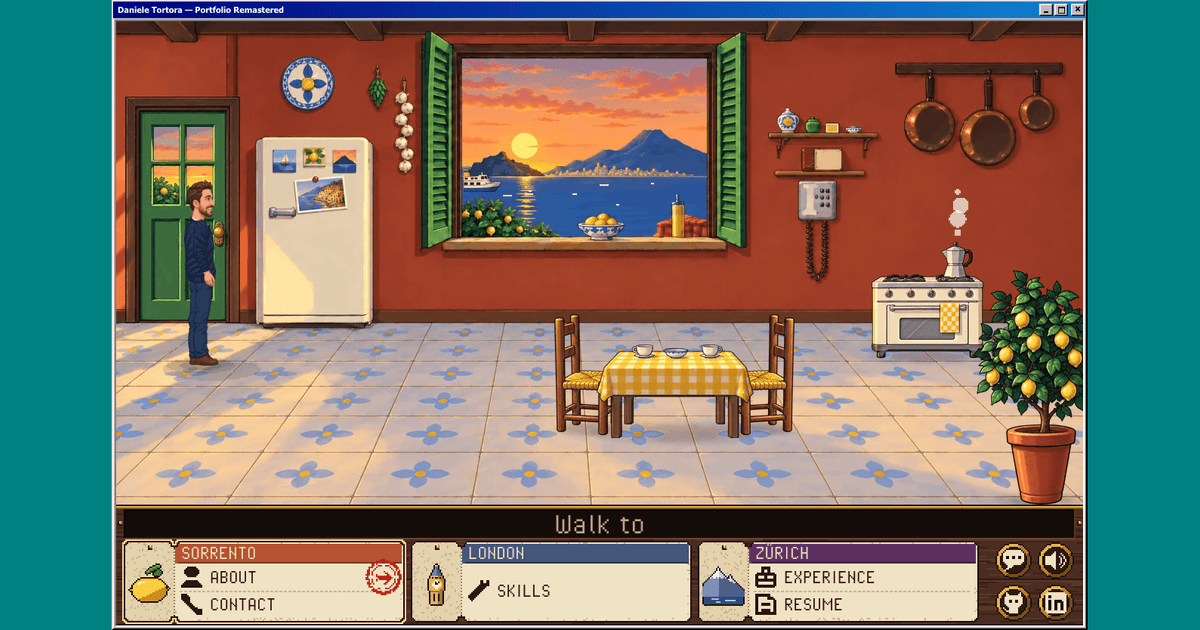
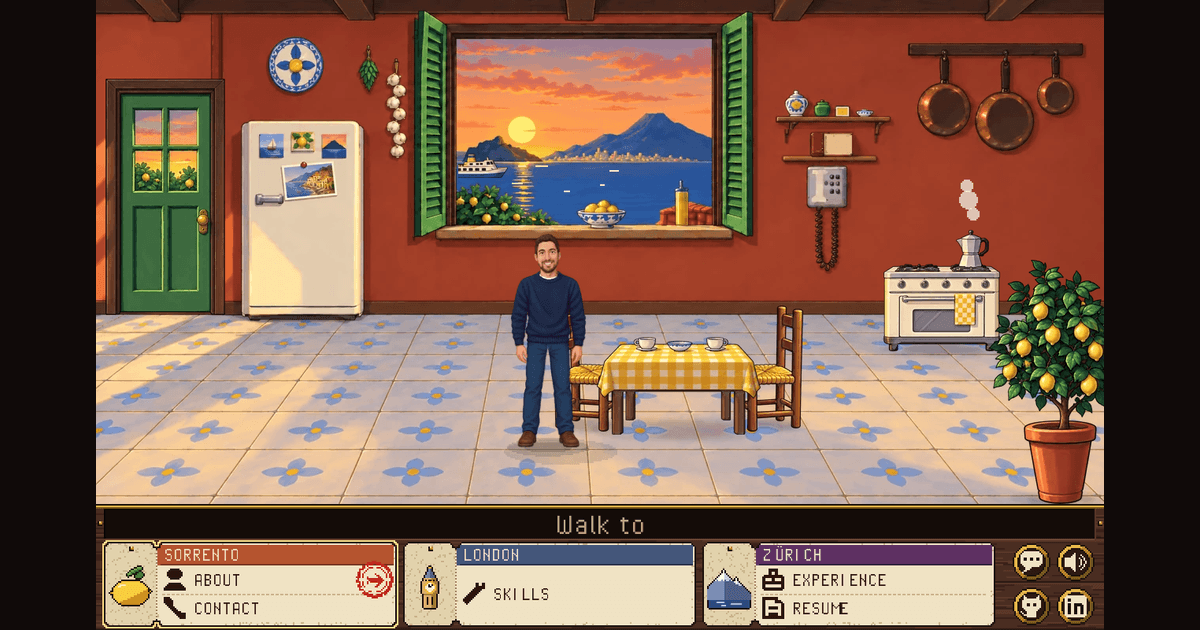
chore: share front-facing Sorrento capture across preview images

diff --git a/scripts/generate-og-image.ts b/scripts/generate-og-image.ts
@@ -1,7 +1,7 @@
 /**
  * Generate the OG image (public/{PROFILE.seo.ogImage}, 1200x630): a
  * screenshot of the real game, the painted Sorrento kitchen with the travel-trunk
- * toolbar, in its Windows 98 window.
+ * toolbar. The same capture supplies the README's scene image.
  *
  * Usage:
  *   npm run generate:og-image
@@ -14,13 +14,15 @@
  * 2. the airport canvas and intro conversation, then Escape;
  * 3. the Sorrento gate and the destination canvas after travel;
  * 4. Daniele's greeting to finish, so no speech covers the room;
- * 5. two animation frames after clearing the pointer from the game.
+ * 5. walk Daniele 30% left of the reference's x=205, keeping y=142,
+ *    then approach that spot from above to face the viewer;
+ * 6. clear the pointer and let the walking pose settle.
  *
- * The screenshot is taken at the window's own size on a big viewport (the
- * art stays on the pixel grid), and resized once with Lanczos to 1200x630.
+ * Capture the 1280x800 game without desktop chrome. Preserve the full scene
+ * and toolbar in the 1200x630 social image with dark side padding.
  */
 
-import { chromium } from "@playwright/test";
+import { chromium, expect } from "@playwright/test";
 import { dirname, join } from "node:path";
 import { fileURLToPath } from "node:url";
 import sharp from "sharp";
@@ -34,6 +36,11 @@ const OG_IMAGE_HEIGHT = 630;
 
 /** Big enough that the game window opens at its full 1292x838. */
 const VIEWPORT = { width: 1600, height: 1000 };
+const REFERENCE_POSITION = { x: 205, y: 142 };
+const CAPTURE_POSITION = {
+  x: REFERENCE_POSITION.x * 0.7,
+  y: REFERENCE_POSITION.y,
+};
 
 async function generateOGImage() {
   console.log("Generating OG image...\n");
@@ -80,40 +87,53 @@ async function generateOGImage() {
       timeout: 30000,
     });
 
-    // Desktop icons and wallpaper branding would poke into the crop.
-    await page
-      .locator('[data-e2e^="desktop-icon"], [class*="wallpaperBrand"]')
-      .evaluateAll((elements) =>
-        elements.forEach((element) => element.remove()),
+    // Use real floor clicks, finishing with a southward step so the rig faces
+    // the viewer. Waiting on drawn coordinates verifies the requested pose.
+    const scene = page.locator("[data-e2e=scene][data-scene=sorrento]");
+    const sceneBox = await scene.boundingBox();
+    if (!sceneBox) throw new Error("The Sorrento scene isn't on screen");
+    for (const y of [CAPTURE_POSITION.y - 4, CAPTURE_POSITION.y]) {
+      await page.mouse.click(
+        sceneBox.x + (CAPTURE_POSITION.x / 320) * sceneBox.width,
+        sceneBox.y + (y / 160) * sceneBox.height,
       );
-    await page.evaluate(
-      "new Promise((done) => requestAnimationFrame(() => requestAnimationFrame(done)))",
-    );
-
-    // The game window, widened with desktop to the image's aspect ratio.
-    const box = await page
-      .locator("[data-e2e=win95-window]")
-      .filter({ has: page.locator("[data-e2e=win95-game-window]") })
-      .boundingBox();
-    if (!box) throw new Error("The game window isn't on screen");
-    const width = Math.round((box.height * OG_IMAGE_WIDTH) / OG_IMAGE_HEIGHT);
-    const clip = {
-      x: Math.max(0, Math.round(box.x + box.width / 2 - width / 2)),
-      y: Math.round(box.y),
-      width,
-      height: Math.round(box.height),
-    };
-    const shot = await page.screenshot({ clip });
+      await expect
+        .poll(
+          async () => {
+            const value = await canvas.getAttribute("data-position");
+            if (!value) return false;
+            const position = JSON.parse(value) as { x: number; y: number };
+            return (
+              Math.abs(position.x - CAPTURE_POSITION.x) < 0.01 &&
+              Math.abs(position.y - y) < 0.01
+            );
+          },
+          { timeout: 10000 },
+        )
+        .toBe(true);
+    }
+    await page.mouse.move(0, 0);
+    // The rig blends from walking to idle over 160 ms.
+    await page.waitForTimeout(200);
+    const shot = await page.locator("[data-e2e=game-canvas]").screenshot();
+    await sharp(shot)
+      .webp({ quality: 90 })
+      .toFile(join(root, "docs/images/readme-sorrento.webp"));
 
     const outputPath = join(root, "public", PROFILE.seo.ogImage);
     await sharp(shot)
-      .resize(OG_IMAGE_WIDTH, OG_IMAGE_HEIGHT, { kernel: "lanczos3" })
+      .resize(OG_IMAGE_WIDTH, OG_IMAGE_HEIGHT, {
+        kernel: "lanczos3",
+        fit: "contain",
+        background: "#100b09",
+      })
       // A 256-colour palette keeps the painted screenshot compact for
       // social crawlers while preserving the full 1200x630 dimensions.
       .png({ palette: true, colours: 256, quality: 100, effort: 10 })
       .toFile(outputPath);
 
     console.log(`\nOG image saved to: public/${PROFILE.seo.ogImage}`);
+    console.log("README image saved to: docs/images/readme-sorrento.webp");
     console.log(`   Dimensions: ${OG_IMAGE_WIDTH}x${OG_IMAGE_HEIGHT}px\n`);
   } finally {
     await browser.close();

diff --git a/README.md b/README.md
@@ -2,7 +2,7 @@
 
 <div align="center">
 
-<img src="docs/images/readme-sorrento.webp" alt="The desktop Sorrento scene: Daniele stands in a tiled kitchen with a view of the Gulf of Naples at sunset, a postcard-covered fridge, a telephone and a coffee pot, above the travel-trunk toolbar with boarding passes for Sorrento, London and Zürich" width="720" />
+<img src="docs/images/readme-sorrento.webp" alt="The desktop Sorrento scene: Daniele faces the viewer to the left of the kitchen table, with a view of the Gulf of Naples at sunset, a postcard-covered fridge, a telephone and a coffee pot, above the travel-trunk toolbar with boarding passes for Sorrento, London and Zürich" width="720" />
 
 ### [danieletortora.com](https://www.danieletortora.com)
 
@@ -101,16 +101,17 @@ Then open the URL shown in the terminal (usually `http://localhost:5173`).
 
 ### Scripts
 
-| Command                   | Description                                             |
-| ------------------------- | ------------------------------------------------------- |
-| `npm run dev`             | Start the dev server                                    |
-| `npm run build`           | Production build                                        |
-| `npm run preview`         | Preview the production build                            |
-| `npm run lint`            | Lint, types, formatting, styles, unused code and assets |
-| `npm run format`          | Format with Prettier                                    |
-| `npm run test:unit`       | Unit tests                                              |
-| `npm run test:browser`    | Component tests in a real browser                       |
-| `npm run test:e2e:docker` | Playwright end-to-end and screenshot tests, in Docker   |
+| Command                     | Description                                             |
+| --------------------------- | ------------------------------------------------------- |
+| `npm run dev`               | Start the dev server                                    |
+| `npm run build`             | Production build                                        |
+| `npm run preview`           | Preview the production build                            |
+| `npm run lint`              | Lint, types, formatting, styles, unused code and assets |
+| `npm run format`            | Format with Prettier                                    |
+| `npm run generate:og-image` | Regenerate the shared Sorrento README and social images |
+| `npm run test:unit`         | Unit tests                                              |
+| `npm run test:browser`      | Component tests in a real browser                       |
+| `npm run test:e2e:docker`   | Playwright end-to-end and screenshot tests, in Docker   |
 
 ### Developer views
 
